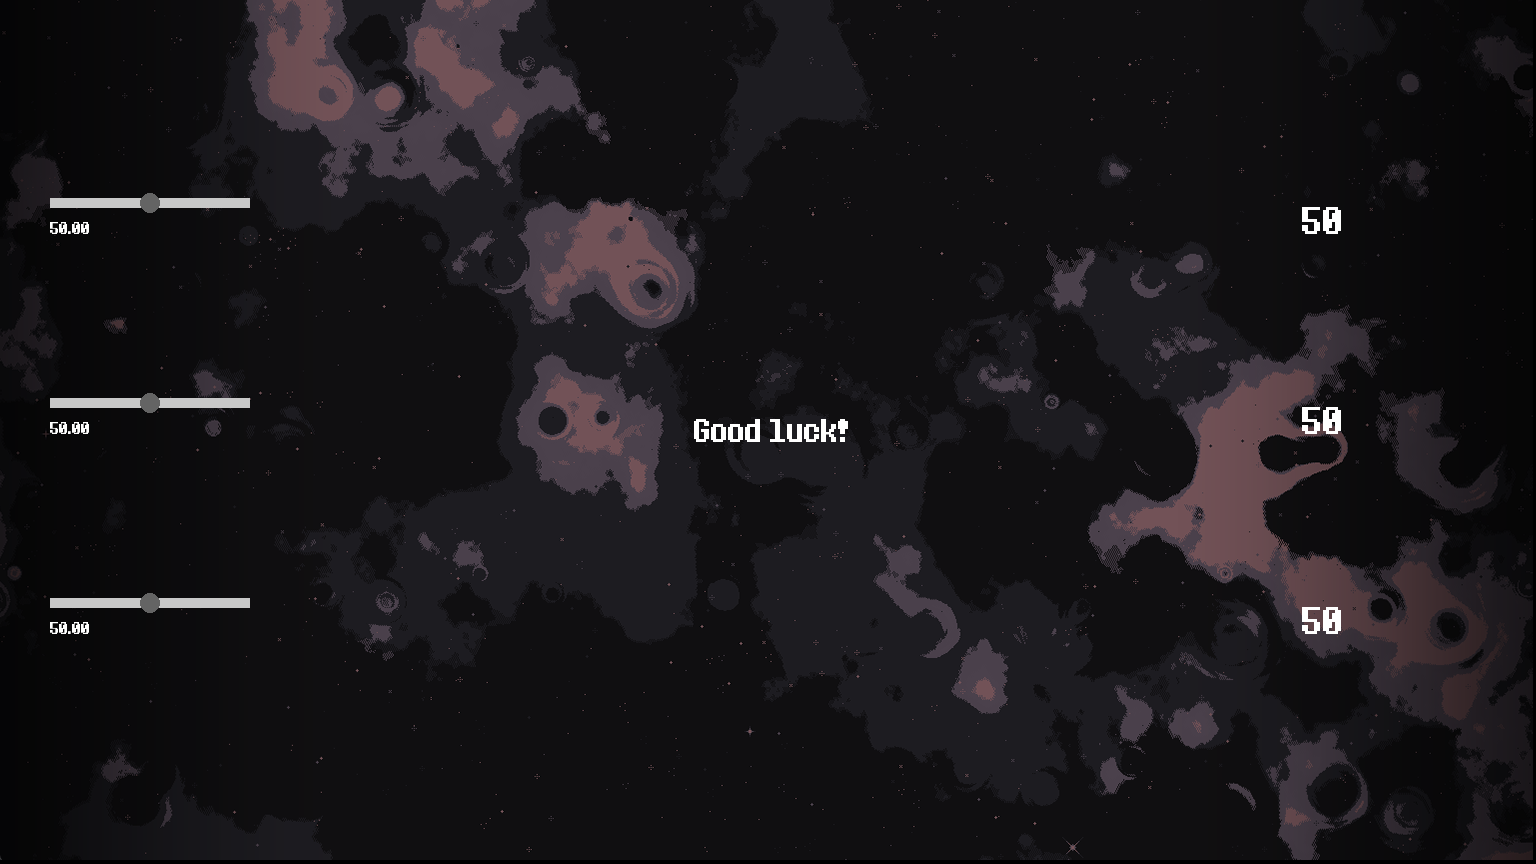
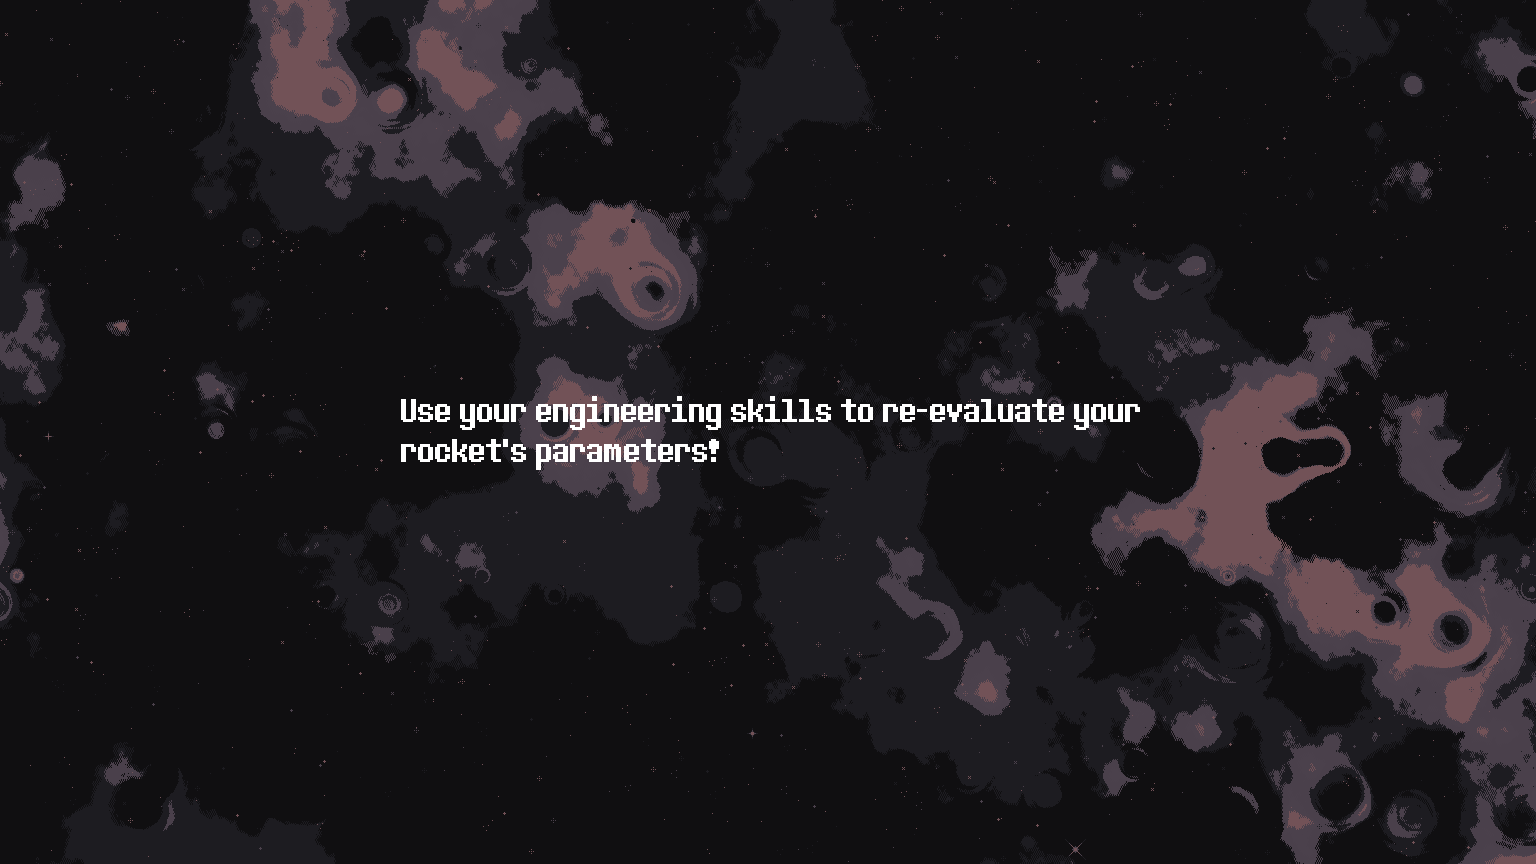
I FIXED THE PROBLEM

diff --git a/main.py b/main.py
@@ -140,7 +140,7 @@ level_lose_sound = pygame.mixer.Sound("Assets/Music/level_lose.mp3")
 play_sound = pygame.mixer.Sound("Assets/Music/play_button.mp3")
 
 fps = 120  # Set FPS rate for frame rate
-delta_time = 0
+delta_time = 0.023
 
 # Initialize TrajectorySimulation instance
 trajectory_simulation = TrajectorySimulation(5, screen, screen_width, screen_height, background_image)
@@ -355,7 +355,7 @@ while True:
 
             screen.blit(image_music_button, coordinate_music_button)
 
-    if not tutorial_game_phase_done and orbital_game_phase:
+    if not tutorial_game_phase_done and orbital_game_phase and chosen_level == 1:
         text_phase1_tutorial_phase = """Oh, you’ve managed to enter this planet’s orbit! Now you have to 
         calibrate your rocket ship in order to achieve a state of orbital stationement! The goal is to make a 
         full turn around the planet! Use your engineering skills to re-evaluate your rocket's parameters!"""
@@ -375,7 +375,7 @@ while True:
 
         tutorial_game_phase_done = True
 
-    if orbital_game_phase and tutorial_game_phase_done:
+    if orbital_game_phase:
         screen.blit(background_space_orbital, (0, 0))
 
         # Draw and handle events for the slider
@@ -388,6 +388,7 @@ while True:
         slider3.draw(screen)
         slider_value3 = slider3.slider_value
 
+
         # Draw the circle with updated angle
         orbital_game_phase = orbital_phase.draw_circle(chosen_level, 350)
 
@@ -397,8 +398,9 @@ while True:
         orbital_game_phase = orbital_phase.update_angle(orbital_game_phase, delta_time)
         orbital_game_phase = orbital_phase.check_timer(slider_value1, slider_value2, slider_value3, orbital_game_phase,
                                                        level_lose_sound)
-        delta_time = clock.tick(fps) / 1000
+
         screen.blit(image_music_button, coordinate_music_button)
+
 
     if player_save[1] != 0:
         # Display the quit button

diff --git a/orbital_phase.py b/orbital_phase.py
@@ -73,6 +73,7 @@ class OrbitalPhase:
         rocket_rect = rotated_rocket.get_rect(center=(x, y))
 
         self.screen.blit(rotated_rocket, rocket_rect)
+
         return True
 
     def update_angle(self, orbital_game_phase, delta_time):
@@ -88,6 +89,7 @@ class OrbitalPhase:
         -------
         bool : True if the angle is updated, False if a full turn is made
         """
+
         angle_increment_per_second = 20  # Angle increase per second
         angle_increment = angle_increment_per_second * delta_time
 
